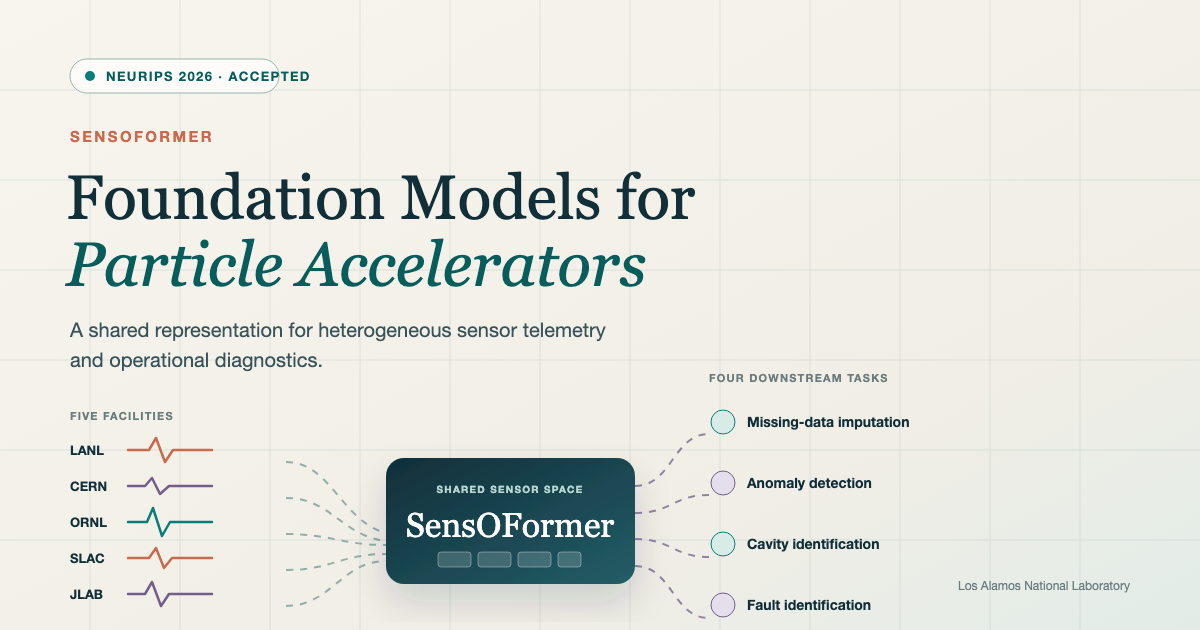
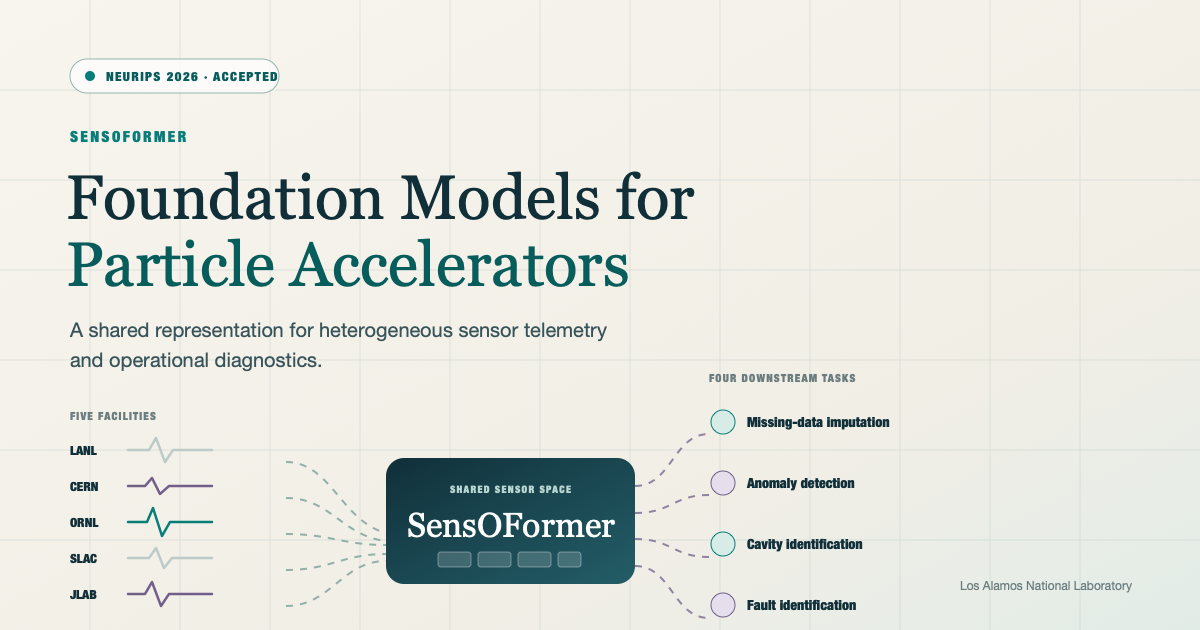
Soften website color palette

diff --git a/index.html b/index.html
@@ -196,16 +196,16 @@
           <div class="accelerator-visual-scroll" tabindex="0" aria-label="Scrollable accelerator diagram">
             <svg class="accelerator-diagram" viewBox="0 0 1120 480" role="img" aria-labelledby="accelerator-diagram-title accelerator-diagram-desc" focusable="false">
               <title id="accelerator-diagram-title">How an accelerator beamline works</title>
-              <desc id="accelerator-diagram-desc">A compact bunch of three equal-size smiling particles leaves a source, accelerates, shifts from orange to red, and compresses more tightly together as radio-frequency cavities add energy. The bunch bends through a dipole magnet, narrows through quadrupole magnets, passes through beam diagnostics, and reaches an experiment. Animated signals from RF probes, magnet-current monitors, beam-position monitors, and beam-loss monitors travel to the control system.</desc>
+              <desc id="accelerator-diagram-desc">A compact bunch of three equal-size smiling particles leaves a source, accelerates, shifts through soft neutral tones, and compresses more tightly together as radio-frequency cavities add energy. The bunch bends through a dipole magnet, narrows through quadrupole magnets, passes through beam diagnostics, and reaches an experiment. Animated signals from RF probes, magnet-current monitors, beam-position monitors, and beam-loss monitors travel to the control system.</desc>
               <defs>
                 <linearGradient id="beamGradient" x1="0" x2="1">
-                  <stop offset="0" stop-color="#c9694d" stop-opacity="0.28"/>
-                  <stop offset="0.5" stop-color="#c9694d" stop-opacity="0.72"/>
-                  <stop offset="1" stop-color="#c9694d" stop-opacity="0.28"/>
+                  <stop offset="0" stop-color="#bccbc8" stop-opacity="0.28"/>
+                  <stop offset="0.5" stop-color="#bccbc8" stop-opacity="0.72"/>
+                  <stop offset="1" stop-color="#bccbc8" stop-opacity="0.28"/>
                 </linearGradient>
                 <linearGradient id="energyGradient" x1="0" x2="1">
-                  <stop offset="0" stop-color="#c9694d" stop-opacity="0.3"/>
-                  <stop offset="1" stop-color="#b94132" stop-opacity="0.95"/>
+                  <stop offset="0" stop-color="#dce5e3" stop-opacity="0.3"/>
+                  <stop offset="1" stop-color="#afbfbc" stop-opacity="0.95"/>
                 </linearGradient>
                 <filter id="beamGlow" x="-80%" y="-80%" width="260%" height="260%">
                   <feGaussianBlur stdDeviation="2.2" result="blur"/>
@@ -314,19 +314,19 @@
 
               <g clip-path="url(#acceleratorBeamClip)" aria-hidden="true">
                 <g class="smiley-particle">
-                  <circle class="particle-body" r="8"><animate attributeName="fill" dur="5s" repeatCount="indefinite" values="#f4a340;#ea7938;#d95034;#b52f2c" keyTimes="0;0.46;0.72;1"/></circle>
+                  <circle class="particle-body" r="8"><animate attributeName="fill" dur="5s" repeatCount="indefinite" values="#e7eceb;#dce4e2;#cdd9d6;#bccbc8" keyTimes="0;0.46;0.72;1"/></circle>
                   <circle class="particle-eye" cx="-2.7" cy="-1.8" r="0.9"/><circle class="particle-eye" cx="2.7" cy="-1.8" r="0.9"/>
                   <path class="particle-smile" d="M-3 1.2Q0 4.2 3 1.2"/>
                   <animateMotion dur="5s" repeatCount="indefinite" calcMode="linear" keyPoints="0.044;0.25;0.58;0.985" keyTimes="0;0.46;0.72;1"><mpath href="#beamTrajectory"/></animateMotion>
                 </g>
                 <g class="smiley-particle">
-                  <circle class="particle-body" r="8"><animate attributeName="fill" dur="5s" repeatCount="indefinite" values="#f4a340;#ea7938;#d95034;#b52f2c" keyTimes="0;0.46;0.72;1"/></circle>
+                  <circle class="particle-body" r="8"><animate attributeName="fill" dur="5s" repeatCount="indefinite" values="#e7eceb;#dce4e2;#cdd9d6;#bccbc8" keyTimes="0;0.46;0.72;1"/></circle>
                   <circle class="particle-eye" cx="-2.7" cy="-1.8" r="0.9"/><circle class="particle-eye" cx="2.7" cy="-1.8" r="0.9"/>
                   <path class="particle-smile" d="M-3 1.2Q0 4.2 3 1.2"/>
                   <animateMotion dur="5s" repeatCount="indefinite" calcMode="linear" keyPoints="0.022;0.229;0.56;0.969" keyTimes="0;0.46;0.72;1"><mpath href="#beamTrajectory"/></animateMotion>
                 </g>
                 <g class="smiley-particle">
-                  <circle class="particle-body" r="8"><animate attributeName="fill" dur="5s" repeatCount="indefinite" values="#f4a340;#ea7938;#d95034;#b52f2c" keyTimes="0;0.46;0.72;1"/></circle>
+                  <circle class="particle-body" r="8"><animate attributeName="fill" dur="5s" repeatCount="indefinite" values="#e7eceb;#dce4e2;#cdd9d6;#bccbc8" keyTimes="0;0.46;0.72;1"/></circle>
                   <circle class="particle-eye" cx="-2.7" cy="-1.8" r="0.9"/><circle class="particle-eye" cx="2.7" cy="-1.8" r="0.9"/>
                   <path class="particle-smile" d="M-3 1.2Q0 4.2 3 1.2"/>
                   <animateMotion dur="5s" repeatCount="indefinite" calcMode="linear" keyPoints="0;0.208;0.54;0.953" keyTimes="0;0.46;0.72;1"><mpath href="#beamTrajectory"/></animateMotion>

diff --git a/static/css/site.css b/static/css/site.css
@@ -8,7 +8,7 @@
   --canvas: #f3f0e8;
   --white: #ffffff;
   --wash: #e8efeb;
-  --wash-blue: #e8f0f2;
+  --wash-blue: #f3f7f8;
   --line: #ced8d4;
   --line-dark: #aabbb7;
   --teal: #087d79;
@@ -16,11 +16,10 @@
   --teal-soft: #d8ece7;
   --acceptance-green: #247847;
   --acceptance-green-soft: #e4f0e7;
-  --coral: #c9694d;
-  --coral-soft: #f1ddd4;
+  --coral: #bccbc8;
+  --coral-soft: #faf7f5;
   --violet: #715e8a;
   --violet-soft: #e5deed;
-  --amber: #b98226;
   --shadow: 0 20px 55px rgba(18, 50, 58, 0.10);
   --serif: "Iowan Old Style", "Palatino Linotype", Palatino, Georgia, serif;
   --sans: "Avenir Next", Avenir, "Helvetica Neue", Helvetica, Arial, sans-serif;
@@ -76,7 +75,7 @@ a {
 a:focus-visible,
 button:focus-visible,
 [tabindex]:focus-visible {
-  outline: 3px solid #e6a856;
+  outline: 3px solid var(--teal);
   outline-offset: 4px;
 }
 
@@ -234,7 +233,7 @@ h1 {
 h1 > span {
   display: block;
   margin-bottom: 0.12em;
-  color: var(--coral);
+  color: var(--ink-2);
 }
 
 h1 em {
@@ -246,7 +245,7 @@ h1 em {
 .hero-claim {
   max-width: 620px;
   margin-top: 22px;
-  color: var(--coral);
+  color: var(--teal-dark);
   font-size: 0.72rem;
   font-weight: 700;
   letter-spacing: 0.1em;
@@ -365,7 +364,7 @@ h1 em {
   width: 70px;
   height: 14px;
   background: var(--coral-soft);
-  border: 1px solid rgba(201, 105, 77, 0.35);
+  border: 1px solid rgba(174, 190, 187, 0.5);
   border-radius: 2px;
 }
 
@@ -504,7 +503,7 @@ h1 em {
 }
 
 .scroll-cue span:last-child {
-  color: var(--coral);
+  color: var(--teal);
   font-size: 1rem;
 }
 
@@ -537,7 +536,7 @@ h1 em {
 }
 
 .nav-mark span {
-  color: var(--coral);
+  color: var(--teal);
 }
 
 .nav-links {
@@ -851,7 +850,7 @@ h1 em {
 
 .rf-cavities rect {
   fill: var(--coral-soft);
-  stroke: #d08a72;
+  stroke: #c7d2cf;
   stroke-width: 1.2;
 }
 
@@ -951,17 +950,17 @@ h1 em {
 }
 
 .smiley-particle .particle-body {
-  stroke: rgba(116, 45, 35, 0.72);
+  stroke: rgba(94, 112, 110, 0.58);
   stroke-width: 1;
 }
 
 .smiley-particle .particle-eye {
-  fill: #6f3028;
+  fill: #4f6868;
 }
 
 .smiley-particle .particle-smile {
   fill: none;
-  stroke: #6f3028;
+  stroke: #4f6868;
   stroke-linecap: round;
   stroke-width: 1.15;
 }
@@ -1051,8 +1050,8 @@ h1 em {
 }
 
 .element-actions .action-rf rect {
-  fill: #f8e8e1;
-  stroke: #dfab98;
+  fill: #fbf9f7;
+  stroke: #d8dfdd;
 }
 
 .element-actions .action-rf .action-effect {
@@ -1117,7 +1116,7 @@ h1 em {
 }
 
 .application-list article > span {
-  color: var(--coral);
+  color: var(--teal-dark);
   font-family: var(--mono);
   font-size: 0.62rem;
 }
@@ -1222,7 +1221,7 @@ h1 em {
 }
 
 .challenge-number {
-  color: var(--coral);
+  color: var(--teal-dark);
   font-family: var(--mono);
   font-size: 0.72rem;
 }
@@ -1413,7 +1412,7 @@ h1 em {
 .research-figure figcaption > span {
   display: block;
   margin-bottom: 4px;
-  color: var(--coral);
+  color: var(--teal-dark);
   font-family: var(--mono);
   font-size: 0.65rem;
   font-weight: 700;
@@ -1734,7 +1733,7 @@ h1 em {
 
 .corpus-index,
 .task-index {
-  color: var(--coral);
+  color: var(--teal-dark);
   font-family: var(--mono);
   font-size: 0.64rem;
 }
